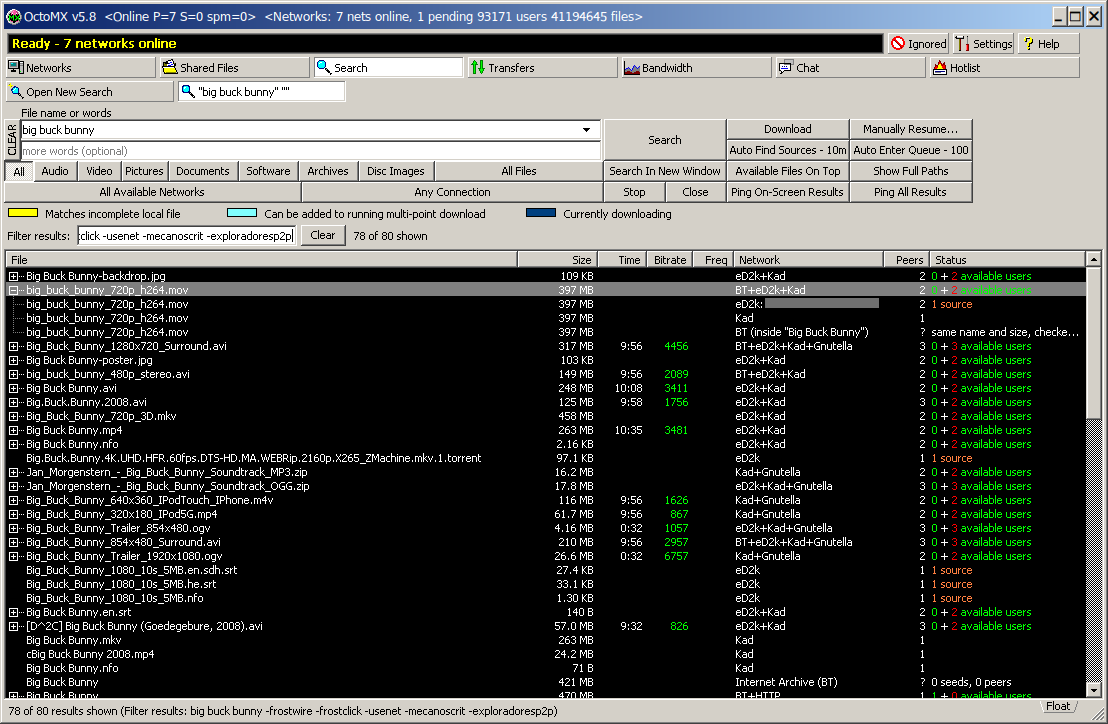
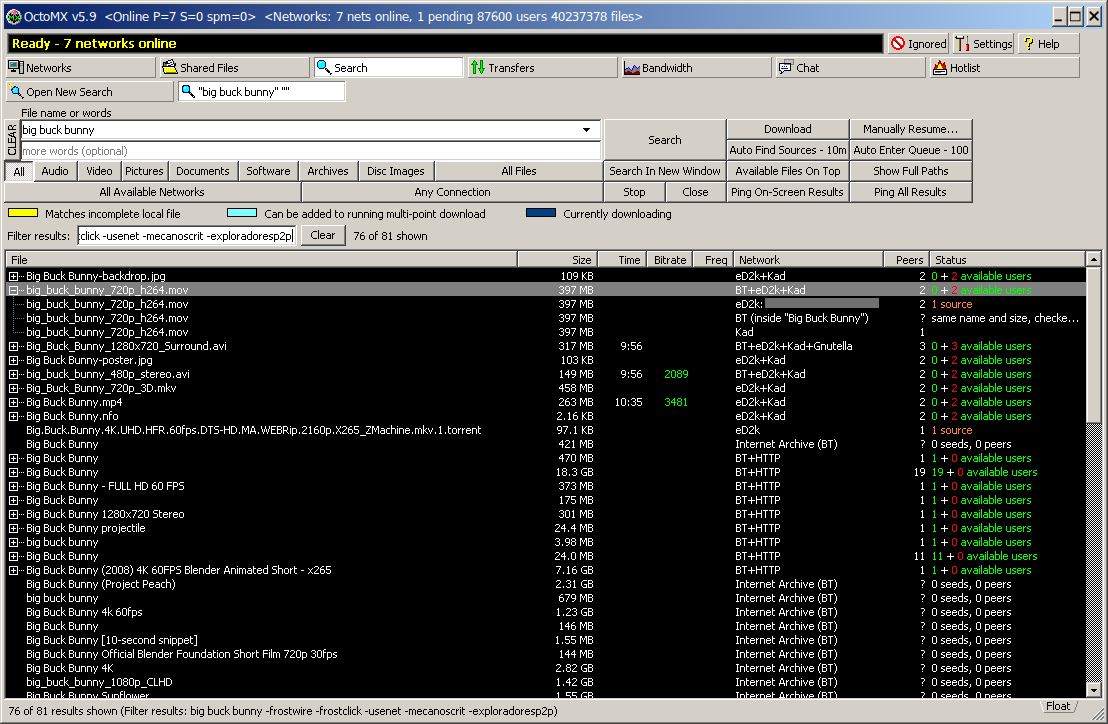
OctoMX 5.9: version and README pictures

diff --git a/src/ui/update_ui.h b/src/ui/update_ui.h
@@ -7,9 +7,9 @@
 // at most once a day unless updates/mode is "off", stays quiet unless a newer version that was not
 // skipped exists, and logs one line otherwise. What a newer release does depends on updates/mode:
 //   auto   (default) download it quietly, check the signature, unpack and check it next to the
-//          program, then the box "OctoMX 5.9 is ready to install" with Restart Now / Later / Skip
+//          program, then the box "OctoMX 5.10 is ready to install" with Restart Now / Later / Skip
 //          This Version (Later: installed when OctoMX is closed, a tray balloon says so once)
-//   ask    the box "OctoMX 5.9 is available" with Update Now (progress bar, then the same restart
+//   ask    the box "OctoMX 5.10 is available" with Update Now (progress bar, then the same restart
 //          question) / Remind Me Later / Skip This Version and the download page as a link
 //   notify the classic message box: Open Download Page / Remind Me Later / Skip This Version
 //   off    no check at start; Help ▸ Check for Updates... still asks
@@ -19,7 +19,7 @@
 // The install itself runs when OctoMX closes (finishOnExit(), called by main.cpp after the core has
 // shut down); after Restart Now the new version is started with the same options. At the next start
 // startupRecovery() finishes or undoes an interrupted swap and removes the old files; the first
-// start after an update shows "Updated to OctoMX 5.9" with a What's New link.
+// start after an update shows "Updated to OctoMX 5.10" with a What's New link.
 //
 // Network policy (tests and scripted runs never contact GitHub): the app sets On for a real core with
 // a user profile, IfUrlSet for a test or scripted run (MX_OS_ROOT is set), Off for
@@ -63,8 +63,8 @@ public:
     enum class State { Idle, Checking, Downloading, Preparing, Ready };
     struct Offer {
         Kind kind = Kind::Notify;
-        QString version;   // "5.9"
-        QString current;   // "5.8"
+        QString version;   // "5.10"
+        QString current;   // "5.9"
         QString notes;     // plain text excerpt
         QString pageUrl;   // what Open Download Page / What's New opens
         QString reason;    // why there is no automatic install (Notify), empty otherwise
@@ -88,11 +88,11 @@ public:
     bool startCheckDue() const;
     void scheduleStartCheck(int delayMs = -1);
     bool isChecking() const;
-    QString currentVersion() const;   // MX_VERSION_FULL, e.g. "5.8.0"
+    QString currentVersion() const;   // MX_VERSION_FULL, e.g. "5.9.0"
     QString mode() const;             // updates/mode: auto | ask | notify | off
     State state() const { return m_state; }
     QString readyVersion() const;     // the prepared update (State::Ready)
-    // one line for the About box: "OctoMX 5.8 is up to date" / "OctoMX 5.9 is available" / ...
+    // one line for the About box: "OctoMX 5.9 is up to date" / "OctoMX 5.10 is available" / ...
     QString statusLine() const;
 
     // show what a check with this answer would show (manual = the answers of Help ▸ Check for

diff --git a/src/ui/dialogs/about_dialog.cpp b/src/ui/dialogs/about_dialog.cpp
@@ -46,7 +46,7 @@ AboutDialog::AboutDialog(mx::Core *core, QWidget *parent) : QDialog(parent)
                            core->isMock() ? tr("\nDemo mode: no network connections are made.") : QString()));
     info->setObjectName(QStringLiteral("aboutText"));
     info->setGeometry(SR(56, 30, 450, 106));
-    // [upd-1] what the update check found, right of the title: "OctoMX 5.8 is up to date." / "... 5.9 is available ..."
+    // [upd-1] what the update check found, right of the title: "OctoMX 5.9 is up to date." / "... 5.10 is available ..."
     if (UpdateController *u = UpdateController::of(qobject_cast<MainWindow *>(parent))) {
         auto *upd = new QLabel(u->statusLine(), this);
         upd->setObjectName(QStringLiteral("aboutUpdateStatus"));

diff --git a/src/api/mx/types.h b/src/api/mx/types.h
@@ -16,10 +16,10 @@
 // [post-1] defined by the top-level CMakeLists.txt from project(OctoMX VERSION ...); these
 // fallbacks only serve a build without it
 #ifndef MX_VERSION_FULL
-#define MX_VERSION_FULL "5.8.0"
+#define MX_VERSION_FULL "5.9.0"
 #endif
 #ifndef MX_VERSION_STRING
-#define MX_VERSION_STRING "5.8"
+#define MX_VERSION_STRING "5.9"
 #endif
 
 namespace mx {

diff --git a/docs/UI_SPEC.md b/docs/UI_SPEC.md
@@ -1488,7 +1488,7 @@ Fidelity checks must treat these as intentional (the classic forms stay reachabl
   "Load Standard ... Defaults" buttons choose the theme and reset every colour.
 * **Help button** [post-1]: a click pops a small menu `About OctoMX...` (bold default) / `Check for
   Updates...` (F1 still opens About directly); the About box has `Check for Updates...` left of OK.
-  The update box is a classic message box titled `OctoMX`: "OctoMX 5.9 is available (you have 5.8)."
+  The update box is a classic message box titled `OctoMX`: "OctoMX 5.10 is available (you have 5.9)."
   with the first lines of the release notes as plain text and `Open Download Page` / `Remind Me Later`
   / `Skip This Version`. Settings ▸ Miscellaneous ▸ System Integration has an `Updates` group with
   "Check for a new version at start (at most once a day)" (updates/checkAtStart, default on).
@@ -1500,19 +1500,19 @@ Fidelity checks must treat these as intentional (the classic forms stay reachabl
   downloading a new version` (ask) / `Only tell me, I install it myself` (notify, the classic box) / `Do
   not check at start` (off). A profile with the earlier check box off gets `off` (migrated once).
   auto: the start check downloads a newer signed release quietly, then a small box titled `OctoMX`
-  (information icon, plain text) says "OctoMX 5.9 is ready to install (you have 5.8)." with the
+  (information icon, plain text) says "OctoMX 5.10 is ready to install (you have 5.9)." with the
   first lines of the release notes, "The download was checked against the OctoMX release
   signature.", with running downloads "Your 3 running downloads continue after the restart.", and
   `Restart Now` (default) / `Later` / `Skip This Version`; Later (also Escape or the close button)
   installs it when OctoMX is closed and a tray balloon says so once. ask, and always for Help ▸ Check
-  for Updates...: "OctoMX 5.9 is available (you have 5.8)." with `Update Now` (a box with a progress
+  for Updates...: "OctoMX 5.10 is available (you have 5.9)." with `Update Now` (a box with a progress
   bar, `Hide` / `Cancel`, then the ready box) / `Remind Me Later` / `Skip This Version` and `Open
   Download Page` as a link below the text. When the program cannot install a release itself (not a
   published package, a folder it cannot write, a release without signature, a download or check that
   failed), the classic box appears with the reason above the last line. The first start after an update
-  shows "Updated to OctoMX 5.9 (from 5.8)." with `What's New` (the release page) / `OK`. The About
-  box has one line under the description: "OctoMX 5.8 is up to date." / "OctoMX 5.9 is available
-  (you have 5.8)." / "... is ready to install ..." / "..., not checked for updates yet.".
+  shows "Updated to OctoMX 5.10 (from 5.9)." with `What's New` (the release page) / `OK`. The About
+  box has one line under the description: "OctoMX 5.9 is up to date." / "OctoMX 5.10 is available
+  (you have 5.9)." / "... is ready to install ..." / "..., not checked for updates yet.".
   Deviations: these boxes are not part of WinMX 3.53 (it had no updater); they are drawn as classic
   message boxes with our own buttons. Deliberate choices: the staging folder is inside the program
   folder (`.new-<version>`, same volume, only the program folder must be writable) instead of next
@@ -1725,7 +1725,7 @@ Fidelity checks must treat these as intentional (the classic forms stay reachabl
   BitTorrent piece hashes)`. With the setting `search/mergeByNameAndSize` off (default on), only plain
   files with equal normalised names merge (a bundle never meets a non-bundle).
 * **The name OctoMX** [ren-1] (owner: "as a name I choose OctoMX"; "OctoMX is the only version and
-  name we use"): every place where the program names itself says OctoMX (title `OctoMX v5.8`,
+  name we use"): every place where the program names itself says OctoMX (title `OctoMX v5.9`,
   `About OctoMX...`, `Exit OctoMX`, message box titles, the `OctoMX Peer Network` tabs and pages, the
   network name `OctoMX` in the Network columns, the default room `OctoMX Lobby`). Where it describes
   itself it says that its interface is in the style of the classic WinMX, with the statement that it

diff --git a/README.md b/README.md
@@ -42,7 +42,7 @@ responsibility; the authors are not responsible for the content exchanged with i
 start the program asks you to accept these terms before it connects to any network. See
 [Legal](#legal).
 
-Version 5.8 for Windows 10/11 (64-bit), Linux (x86_64) and macOS 14.4 or newer. Project page:
+Version 5.9 for Windows 10/11 (64-bit), Linux (x86_64) and macOS 14.4 or newer. Project page:
 https://github.com/robtacconelli/OctoMX
 
 > **Licence:** OctoMX is free software under the **GNU General Public License v3.0 or later**
@@ -94,9 +94,9 @@ built-in demo data:
 
 | | |
 |---|---|
-| **Windows** | Unzip `OctoMX-5.8-win64.zip` anywhere and double-click `octomx.exe`. Nothing is installed. Windows Firewall may ask whether OctoMX may accept connections. |
-| **Linux** | `tar xf OctoMX-5.8-linux-x86_64.tar.xz` and run `OctoMX-5.8-linux-x86_64/octomx`. Qt does not need to be installed. Run `./install-desktop-entry.sh` once for a menu entry and icon. |
-| **macOS** | Unzip `OctoMX-5.8-macos-universal.zip` (one app for Apple Silicon and Intel Macs, macOS 14.4 or newer) and drag `OctoMX.app` into Applications. The first time, right-click `OctoMX.app` and choose **Open**, then **Open** again (on macOS 15: System Settings > Privacy & Security > **Open Anyway**): the app has no Apple Developer ID signature. `README-mac.txt` in the archive has the details. |
+| **Windows** | Unzip `OctoMX-5.9-win64.zip` anywhere and double-click `octomx.exe`. Nothing is installed. Windows Firewall may ask whether OctoMX may accept connections. |
+| **Linux** | `tar xf OctoMX-5.9-linux-x86_64.tar.xz` and run `OctoMX-5.9-linux-x86_64/octomx`. Qt does not need to be installed. Run `./install-desktop-entry.sh` once for a menu entry and icon. |
+| **macOS** | Unzip `OctoMX-5.9-macos-universal.zip` (one app for Apple Silicon and Intel Macs, macOS 14.4 or newer) and drag `OctoMX.app` into Applications. The first time, right-click `OctoMX.app` and choose **Open**, then **Open** again (on macOS 15: System Settings > Privacy & Security > **Open Anyway**): the app has no Apple Developer ID signature. `README-mac.txt` in the archive has the details. |
 
 `SHA256SUMS` next to the archives has their checksums.
 

diff --git a/docs/API.md b/docs/API.md
@@ -84,7 +84,7 @@ Every answer is JSON. An error has a code and a sentence a person can read:
         ],
         "searches": 0,
         "streams": 0,
-        "version": "5.8"
+        "version": "5.9"
     }
 
 ### POST /api/v1/searches
